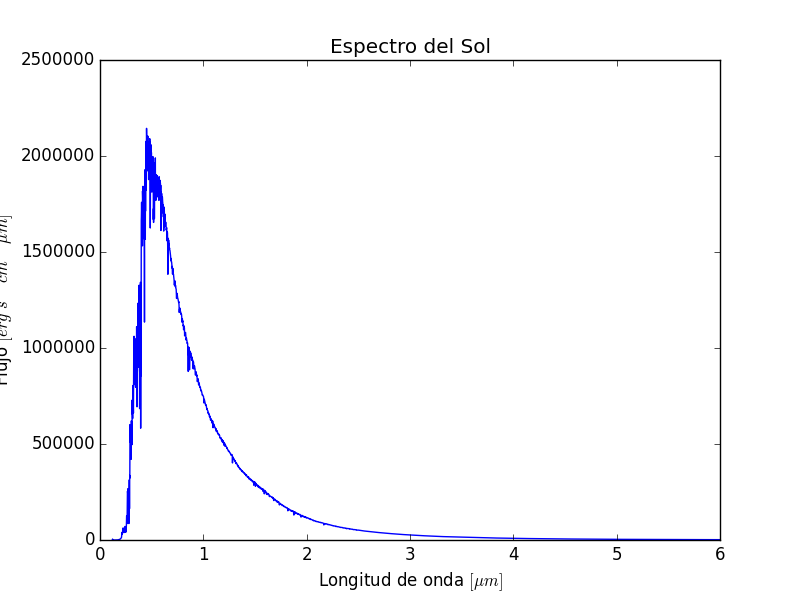
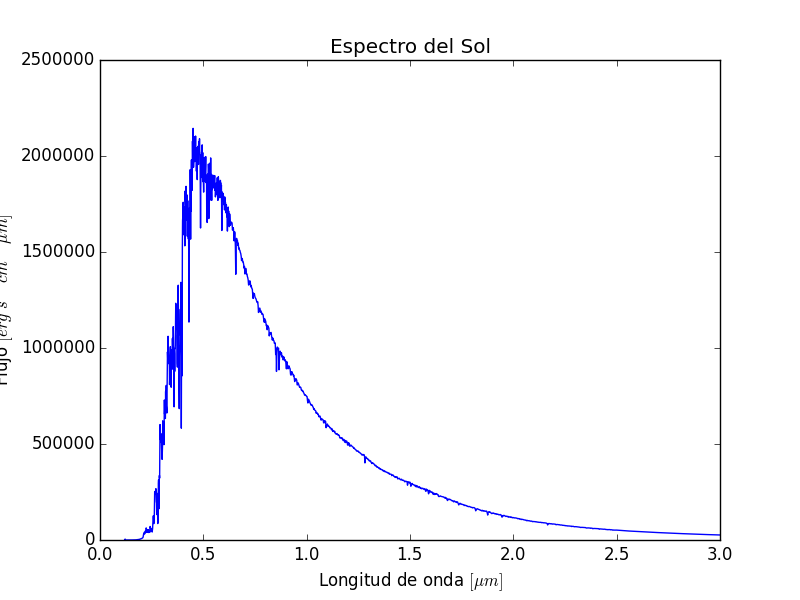
Hechas las partes 1, 2 y 3

diff --git a/integracion2.py b/integracion2.py
@@ -1,0 +1,33 @@
+import numpy as np
+from astropy import constants as ct
+from astropy import units as u
+
+#PARTE 3: INTEGRACIÓN DE LA FUNCIÓN DE PLANCK
+
+x_values=np.linspace(0.00001,np.pi/2,10000);
+y_values=(((np.tan(x_values))**3)+((np.tan(x_values))**5))/(np.exp(np.tan(x_values))-1);
+n=len(x_values)
+base=x_values[1]-x_values[0] #el mismo paso siempre
+suma=0
+
+#metodo del trapecio
+for i in range (0,n-1):
+    area=((y_values[i+1]+y_values[i])*base)/2
+    suma=suma+area
+print(suma) #valor de la integral = pi^4/15
+
+#método de simpson
+def func(x):
+    f=(((np.tan(x))**3)+((np.tan(x))**5))/(np.exp(np.tan(x))-1)
+    return f
+suma2=0
+for i in range(0,n-1):
+    area2=(base/6)*(func(x_values[i])+func(x_values[i+1])+4*func((x_values[i]+x_values[i+1])/2))
+    suma2=suma2+area2
+print(suma2)
+
+T=5778*u.K
+integral=((2*np.pi*ct.h)/(ct.c)**2)*((ct.k_B*T/ct.h)**4)*suma
+print(integral)
+integral2=integral.to('erg/cm2 s') #en unidades cgs
+print(integral2)

diff --git a/integracion.py b/integracion.py
@@ -1,0 +1,23 @@
+import numpy as np
+from astropy import units as u
+
+#PARTE 2: INTEGRACION DEL ESPECTRO
+
+datos=np.loadtxt('sun_AM0.dat')
+x_values=datos[:,0]*u.nm;
+y_values=datos[:,1]*u.W/(u.m**2*u.nm);
+x_new=x_values.to('um');
+y_new=y_values.to('erg/(s cm2 um)');
+n=len(x_new);
+suma=0;
+for i in range(0,n-1): #en unidades cgs
+    base=x_new[i+1]-x_new[i]
+    area=((y_new[i]+y_new[i+1])/2)*base
+    suma=suma+area
+print(suma)
+suma2=0
+for i in range(0,n-1): #en unidades SI
+    base2=x_values[i+1]-x_values[i]
+    area2=((y_values[i]+y_values[i+1])/2)*base2
+    suma2=suma2+area2
+print(suma2)

diff --git a/graficar.py b/graficar.py
@@ -1,0 +1,19 @@
+import numpy as np
+import matplotlib.pyplot as plt
+from astropy import units as u
+
+#PARTE 1: GRAFICAR EL ESPECTRO DEL SOL
+
+datos=np.loadtxt('sun_AM0.dat')
+x_values=datos[:,0]*u.nm;
+y_values=datos[:,1]*u.W/(u.m**2*u.nm);
+x_new=x_values.to('um'); #transformación a unidades cgs
+y_new=y_values.to('erg/(s cm2 um)');
+
+plt.plot(x_new,y_new)
+plt.xlim(0,3)
+plt.xlabel('Longitud de onda $[\mu m]$')
+plt.ylabel('Flujo $[erg$ $s^{-1} cm^{-2} \mu m]$')
+plt.title('Espectro del Sol')
+plt.savefig('grafico1.png')
+plt.show()

diff --git a/radiosolar.py b/radiosolar.py
@@ -1,0 +1,19 @@
+import numpy as np
+from astropy import constants as ct
+from astropy import units as u
+
+#PARTE 3: RADIO SOLAR
+
+datos=np.loadtxt('sun_AM0.dat')
+x_values=datos[:,0]*u.nm;
+y_values=datos[:,1]*u.W/(u.m**2*u.nm);
+n=len(x_values)
+suma=0
+for i in range(0,n-1): #en unidades SI
+    base=x_values[i+1]-x_values[i]
+    area=((y_values[i]+y_values[i+1])/2)*base
+    suma=suma+area
+print(suma)
+T=5778*u.K
+r_s=((suma)**(0.5)*ct.au)/((ct.sigma_sb)**(0.5)*T**2)
+print(r_s)
